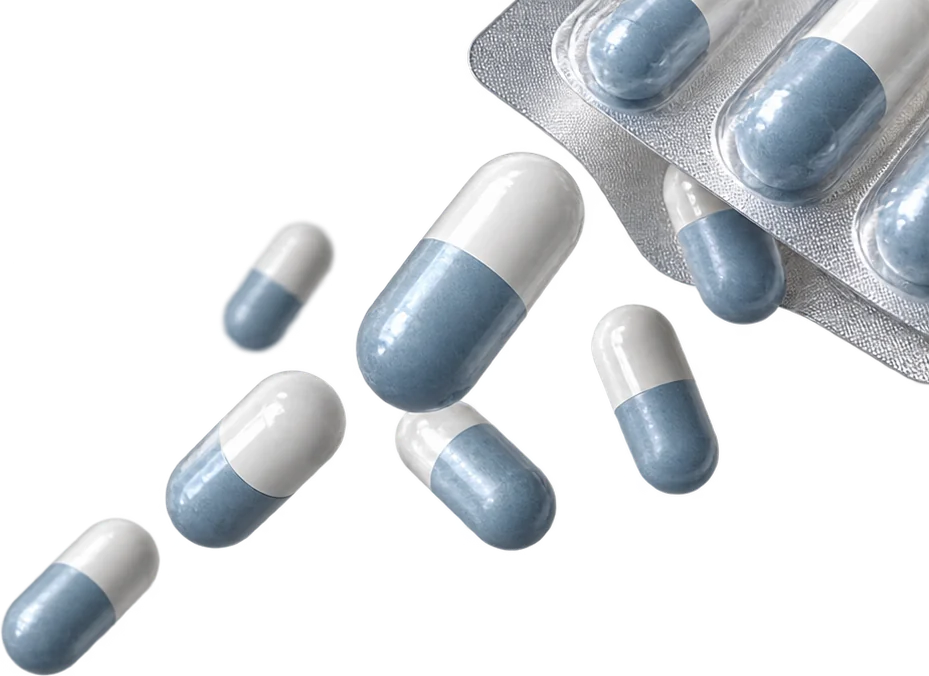
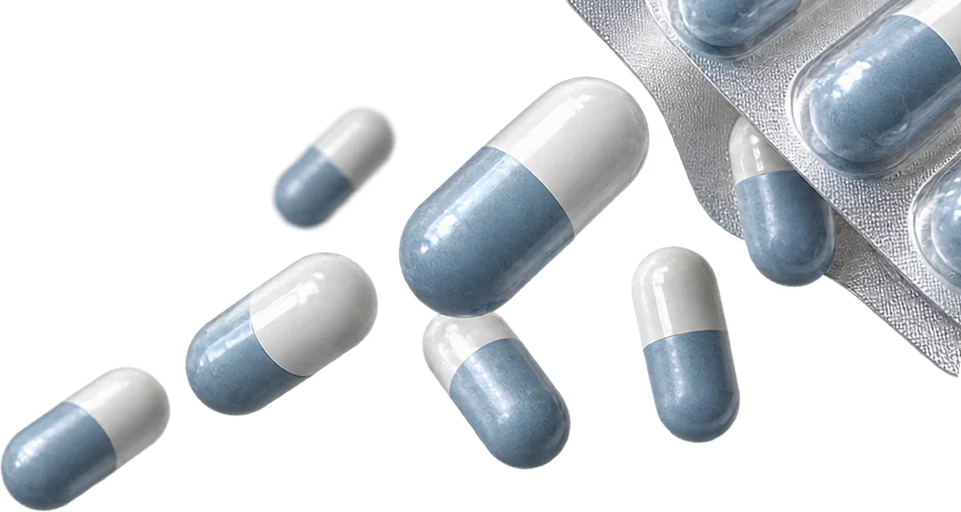
Hero-Kapseln: klare Kante auf einer Linie unter dem Menue, rechts Anschnitt (Weichzeichnung nur ueber 1440px), Bild 10 Grad im Uhrzeigersinn gedreht

diff --git a/index.html b/index.html
@@ -91,6 +91,8 @@
     .footer-link { color: #ffffff; text-decoration: none; }
     .footer-link:hover { color: #ffffff; text-decoration: underline; text-decoration-color: #ffffff; text-underline-offset: 4px; }
     .footer-link:focus-visible { outline: 2px solid #ffffff; outline-offset: 3px; }
+    /* hero capsules: up to 1440px the blister bleeds off the screen edge; on wider screens the page ends mid-air, so the cut right edge fades out */
+    @media (min-width: 1441px) { .hero-pills { -webkit-mask-image: linear-gradient(to left, transparent 0, #000 12%); mask-image: linear-gradient(to left, transparent 0, #000 12%); } }
   </style>
 </helmet>
 <div style="{{ pageStyle }}">
@@ -107,9 +109,10 @@
         <h1 style="{{ h1Style }}"><span style="{{ h1AccentStyle }}">Prompts bauen.</span> Workflows automatisieren. <em style="{{ h1EmStyle }}">Content skalieren.</em></h1>
         <p style="{{ heroLeadStyle }}">Was ich dafür mitbringe und wie ich es bei Kijimea umsetzen würde.</p>
       </div>
-      <!-- Kijimea capsules spilling from a blister (cut-out PNG from the user): desktop = top right under the nav, falling into the white space beside the headline;
-           blister edges dissolve to the top and right so there is never a hard image edge; mobile = in the flow under the intro line, bleeding off the right edge -->
-      <img src="assets/kijimea-kapseln.webp" alt="" width="929" height="676" decoding="async" style="{{ heroPillsStyle }}" />
+      <!-- Kijimea capsules spilling from a blister (cut-out PNG from the user, turned 10° clockwise and re-cut straight at top and right): desktop = the blister slides out from under the full-width header hairline
+           (crisp top edge on the line) and bleeds off the right edge, capsules fall into the white space beside the headline;
+           mobile = in the flow under the intro line, bleeding off the right edge, top edge softened (no line to sit on there) -->
+      <img src="assets/kijimea-kapseln.webp" alt="" width="961" height="512" decoding="async" class="hero-pills" style="{{ heroPillsStyle }}" />
     </header>
 
     <section id="ueber-mich" aria-label="Kurz über mich" style="{{ aboutSectionStyle }}">
@@ -772,29 +775,29 @@ class Component extends DCLogic {
       },
 
       heroIntroWrapStyle: { position: "relative" },
-      /* soft edge only where the blister is cut (top + right); the loose capsules stay fully crisp */
-      heroPillsStyle: Object.assign(m ? {
+      /* desktop: top edge sits exactly on the header hairline (32 padding + 42 logo row + 24 + 1px line = 99; top 98 tucks the first pixel row under the line) */
+      heroPillsStyle: m ? {
         display: "block", alignSelf: "flex-end", width: "74%", height: "auto",
         margin: "-12px -24px -28px 0", pointerEvents: "none",
+        WebkitMaskImage: "linear-gradient(to bottom, transparent 0, #000 20%)", maskImage: "linear-gradient(to bottom, transparent 0, #000 20%)",
       } : {
-        position: "absolute", zIndex: 0, top: 92, right: 0, pointerEvents: "none",
+        position: "absolute", zIndex: 0, top: 98, right: 0, pointerEvents: "none",
         width: "min(560px, 39vw)", height: "auto",
-      }, {
-        WebkitMaskImage: "linear-gradient(to bottom, transparent 0, #000 20%), linear-gradient(to left, transparent 0, #000 12%)",
-        maskImage: "linear-gradient(to bottom, transparent 0, #000 20%), linear-gradient(to left, transparent 0, #000 12%)",
-        WebkitMaskComposite: "source-in", maskComposite: "intersect",
-      }),
+      },
       /* Hero: header row (wordmark | nav), then kicker, two-tone headline and a calm intro line */
       heroStyle: {
         position: "relative", zIndex: 1,
         display: "flex", flexDirection: "column",
-        gap: m ? 40 : 80,
+        gap: m ? 40 : 56, /* desktop: 24px row padding + line + 56 = same text position as before */
         padding: m ? "26px 24px 4px 24px" : "32px 72px 16px 72px",
       },
       heroTopRowStyle: {
         display: "flex", flexDirection: m ? "column" : "row", flexWrap: "wrap",
         alignItems: m ? "flex-start" : "center", justifyContent: "space-between",
         gap: m ? 20 : 24, position: "relative", zIndex: 1,
+        /* desktop: full-width hairline under logo + nav, the edge the capsule blister comes out from under */
+        margin: m ? 0 : "0 -72px", padding: m ? 0 : "0 72px 24px 72px",
+        borderBottom: m ? "none" : "1px solid var(--border-subtle)",
       },
       /* company logo top left (as on the Mehr Ampere / AkuRat pages); the user's own wordmark lives in the footer */
       heroLogoStyle: { display: "block", height: m ? 32 : 42, width: "auto" },
